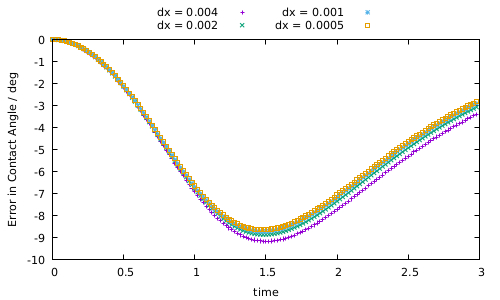
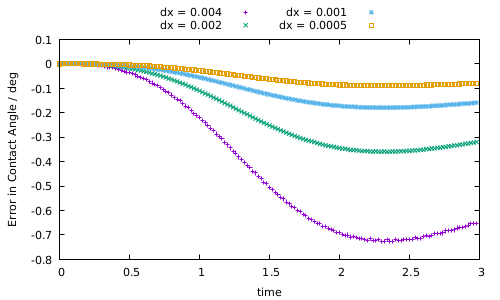
Fixed angle reference solution with the explicit euler method and updated the pictures of the shear field

diff --git a/src/LevelSet.cpp b/src/LevelSet.cpp
@@ -56,7 +56,7 @@ array<double, 3> candidate = {0, 0, 0};
  * @param initCP The position of the contact point at timestep 0
  * @return The theoretical position of the contact point after a given time
  */
-array<double, 3> LevelSet::getContactPointExplicitEuler(double dt, int timestep, int timesteps, array<double, 3> initCP) {
+array<double, 3> LevelSet::getContactPointExplicitEuler(double dt, int timestep, array<double, 3> initCP) {
     array<double, 3> &temp = initCP;
     for (int i = 0; i < timestep; i++)
     	temp = temp + dt*field->at(timestep*dt, temp[0], temp[1], temp[2]);
@@ -225,11 +225,12 @@ double LevelSet::getContactAngle(array<int, 3> cell) {
  * @param CP The current position of the contact point
  * @return The reference contact angle in degrees
  */
-double LevelSet::getReferenceAngleExplicitEuler(double dt, int timestep, array<double, 3> n_sigma_init, array<double, 3> CP) {
+double LevelSet::getReferenceAngleExplicitEuler(double dt, int timestep, array<double, 3> n_sigma_init, array<double, 3> CP_init) {
 	array<double, 3> &n_sigma = n_sigma_init;
 	array<double, 3> deriv = {0, 0, 0};
 	double t = dt*timestep;
 	for (int i = 0; i < timestep; i++) {
+	    array<double, 3> CP = getContactPointExplicitEuler(dt, i, CP_init);
 		deriv = -1*transpose(field->gradAt(t, CP[0], CP[1], CP[2]))*n_sigma + ((field->gradAt(t, CP[0], CP[1], CP[2])*n_sigma)*n_sigma)*n_sigma;
 		n_sigma = deriv*dt + n_sigma;
 		n_sigma = n_sigma/abs(n_sigma);

diff --git a/src/LevelSet.hpp b/src/LevelSet.hpp
@@ -23,11 +23,11 @@ public:
     LevelSet(int numX, int numY, int numZ, double dx, double dy, double dz, VelocityField *field, std::string trackedCP);
 
     array<double, 3> getInitCP(array<double, 3> expcp, double epsilon);
-    array<double, 3> getContactPointExplicitEuler(double dt, int timestep, int timesteps, array<double, 3> initCP);
+    array<double, 3> getContactPointExplicitEuler(double dt, int timestep, array<double, 3> initCP);
     array<double, 3> getContactPointLinearField(double t, double c1, double x0, double v0);
     array<int, 3> getContactPointIndices(array<double, 3> point);
     array<double, 3> getContactPoint(array<int, 3> indices);
-    double getReferenceAngleExplicitEuler(double dt, int timestep, array<double, 3> n_sigma_init, array<double, 3> CP);
+    double getReferenceAngleExplicitEuler(double dt, int timestep, array<double, 3> n_sigma_init, array<double, 3> CP_init);
     double getReferenceAngleLinearField(double t, double c1, double c2, double theta0);
     double getContactAngle(array<int, 3> cell);
     double sumLevelSet();

diff --git a/src/main.cpp b/src/main.cpp
@@ -165,7 +165,7 @@ int main() {
 		// Calculate the theoretical position of the contact point
         array<double, 3> newCPReference;
         if (field->getName() == "shearField")
-        	newCPReference = Phi.getContactPointExplicitEuler(dt, i, timesteps, initCP);
+        	newCPReference = Phi.getContactPointExplicitEuler(dt, i, initCP);
         else
         	newCPReference = Phi.getContactPointLinearField(dt*i, c1, expcpX, v0);
 
@@ -181,7 +181,7 @@ int main() {
 
         std::cout << "Actual: " << std::to_string(angle[i]/(2*M_PI)*360) + "\n";
         if (field->getName() == "shearField") {
-			double reference_temp = Phi.getReferenceAngleExplicitEuler(dt, i, n_sigma_init, newCPReference)/M_PI*180;
+			double reference_temp = Phi.getReferenceAngleExplicitEuler(dt, i, n_sigma_init, expcp)/M_PI*180;
 			angleFile << i*dt << ", " << angle[i]/(2*M_PI)*360 << ", " << reference_temp << "\n";
 			std::cout << "Reference: " << reference_temp << "\n";
 		} else {
